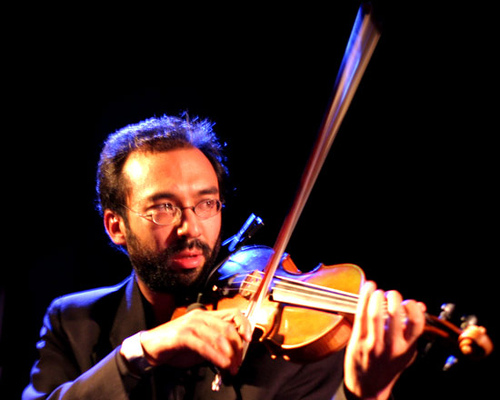
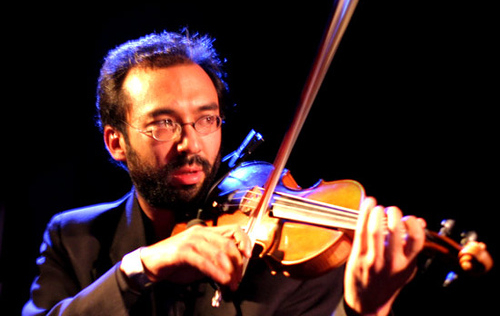
fixed the slideshow(kindof)

diff --git a/About.css b/About.css
@@ -6,10 +6,13 @@ h1{
 	text-align: center;
 }
 .slideshow li {
-
+	overflow: hidden;
+	width:650px;
+	height: 650px;
 }
 .slideshow img{
 	width: 100%;
+	overflow: hidden;
 }
 h5 {
 	font-size: 90%;
